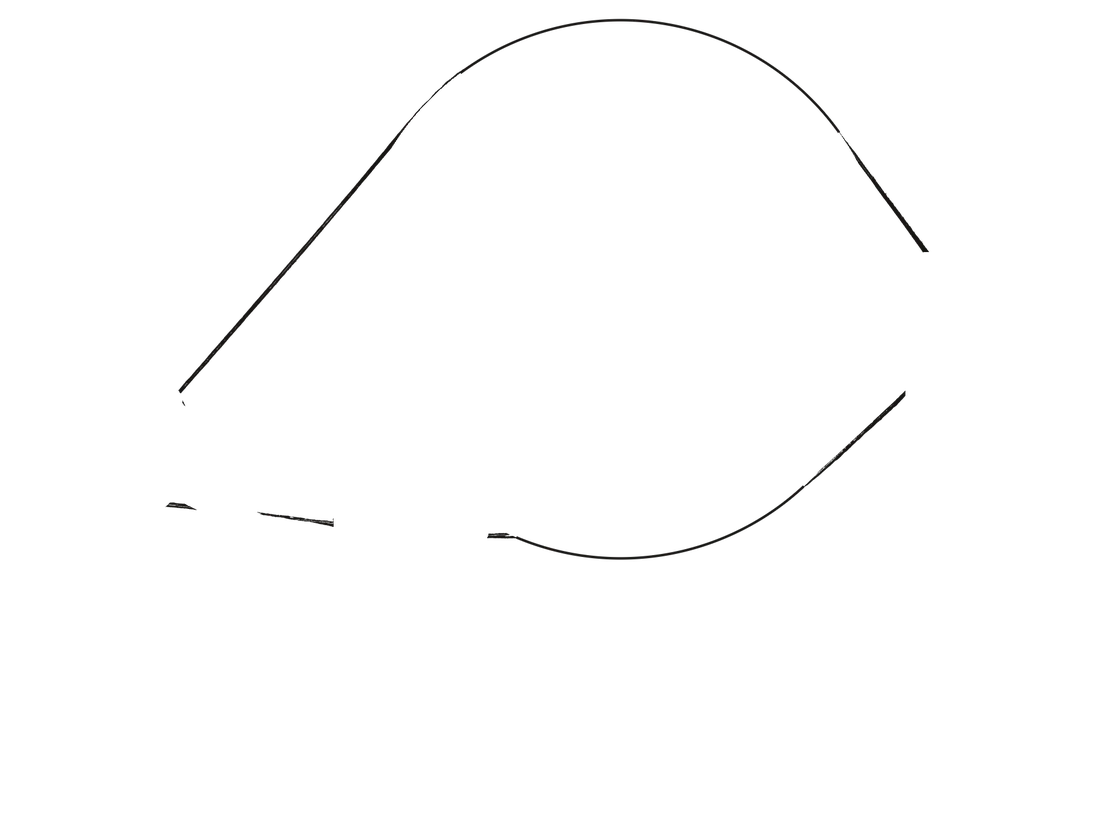
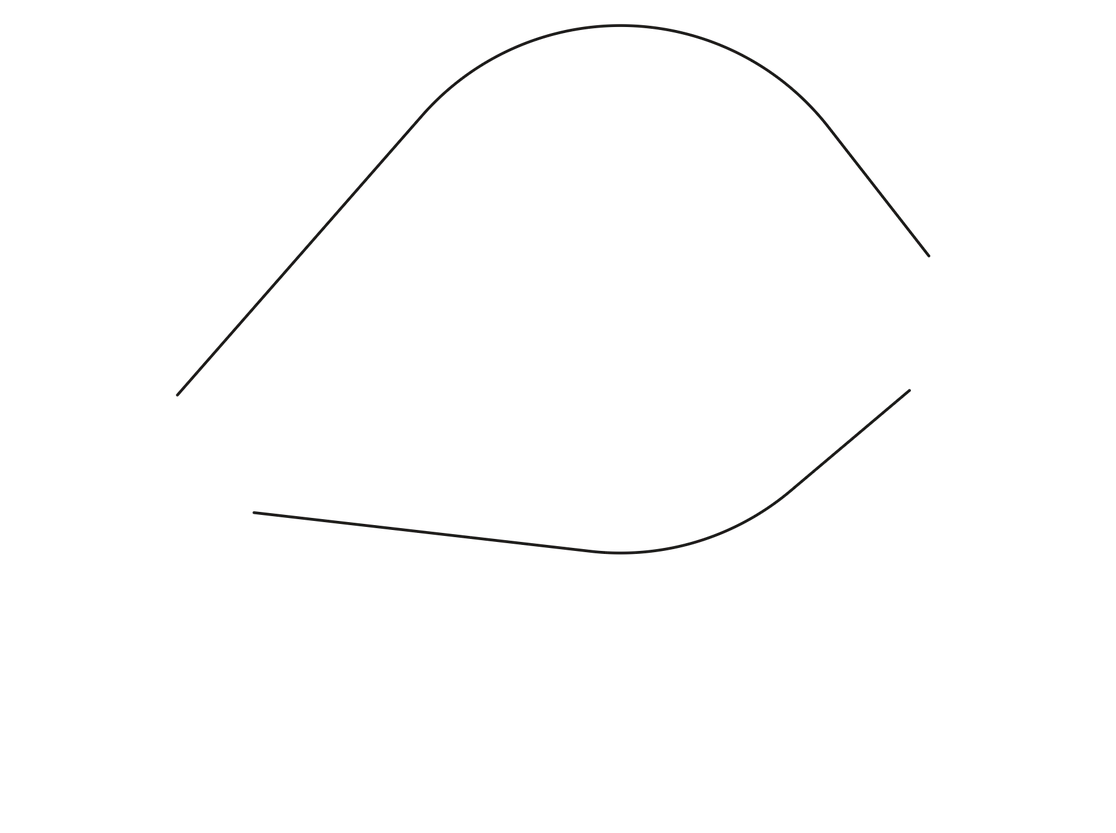
Animate: solid redrawn drive band, static plate text, constant-speed wheel (linear 1080° spin-up); doc v6

diff --git a/src/shells/animate/demo.ts b/src/shells/animate/demo.ts
@@ -28,7 +28,6 @@ const E = {
   out: { kind: 'bezier', p: [0, 0, 0.58, 1] } as Ease,
   io: { kind: 'bezier', p: [0.42, 0, 0.58, 1] } as Ease,
   expo: { kind: 'bezier', p: [0.16, 1, 0.3, 1] } as Ease,
-  spinUp: { kind: 'bezier', p: [0.5, 0, 0.18, 1] } as Ease, // gathers, then coasts
   hold: { kind: 'hold' } as Ease,
   spring: (duration: number, bounce: number): Ease => ({ kind: 'spring', duration, bounce }),
 }
@@ -51,8 +50,8 @@ export function demoDoc(): Doc {
     obj('band', 'Drive band', 'image', null, { x: 558, y: 416.5, w: 1116, h: 833 }, { href: ART.band, locked: true }),
     obj('thread', 'Thread', 'group', null, { x: ORIFICE.x, y: ORIFICE.y, rotation: 25 }),
     obj('yarn', 'Yarn', 'rect', 'thread', { x: 0, w: 0, h: 2.5, radius: 1.25, fill: ACHIOTE }),
-    obj('count', 'Count', 'text', null, { x: 1272, y: 400, fill: ACHIOTE, opacity: 0 }, { text: '{turns} turns', fontSize: 38, fontWeight: 400, align: 'middle', font: 'hand' }),
-    obj('cta', 'Call to action', 'group', null, { x: 1272, y: 444, opacity: 0.7 }),
+    obj('count', 'Count', 'text', null, { x: 1272, y: 400, fill: ACHIOTE }, { text: '{turns} turns', fontSize: 38, fontWeight: 400, align: 'middle', font: 'hand' }),
+    obj('cta', 'Call to action', 'group', null, { x: 1272, y: 444 }),
     obj('caption', 'Caption', 'text', 'cta', { fill: ACHIOTE }, { text: 'click to spin', fontSize: 24, fontWeight: 400, align: 'middle', font: 'hand' }),
     obj('underline', 'Underline', 'rect', 'cta', { x: -2, y: 17, rotation: -2.5, w: 112, h: 1.8, radius: 0.9, fill: ACHIOTE }),
   ]
@@ -66,23 +65,18 @@ export function demoDoc(): Doc {
   const idle: Anim = {
     id: 'idle', name: 'Idle', duration: 9000, loop: 'loop', tracks: {
       'wheel.rotation': [k(0, 0, E.lin), k(9000, 360)],
-      'cta.opacity': [k(0, 0.7), k(2250, 1), k(4500, 0.7), k(6750, 1), k(9000, 0.7)],
     },
   }
   const hover: Anim = {
     id: 'hover', name: 'Hover', duration: 2800, loop: 'loop', tracks: {
       'wheel.rotation': [k(0, 0, E.lin), k(2800, 360)],
-      'cta.opacity': [k(0, 0.7, E.out), k(300, 1)],
     },
   }
   const press: Anim = {
     id: 'press', name: 'Spin up', duration: 2400, loop: 'loop', tracks: {
-      'wheel.rotation': [k(0, 0, E.spinUp), k(1800, 1080)],
+      'wheel.rotation': [k(0, 0, E.lin), k(2400, 1080)], // constant speed: 1080° in 2.4s loops seamlessly
       ...yarn(240, 1300, E.expo),
-      'count.opacity': [k(0, 0, E.hold), k(900, 0, E.out), k(1200, 1, E.hold), k(2050, 1, E.in), k(2400, 0)],
       'yarn.opacity': [k(0, 1, E.hold), k(2050, 1, E.in), k(2400, 0)],
-      'count.y': [k(0, 400, E.hold), k(900, 412, E.spring(520, 0.45)), k(1400, 400)],
-      'cta.opacity': [k(0, 1, E.out), k(400, 0.45, E.hold), k(2050, 0.45, E.io), k(2400, 1)],
     },
   }
   return {

diff --git a/src/shells/animate/store.ts b/src/shells/animate/store.ts
@@ -34,7 +34,7 @@ export const schema = defineSchema({
 export const params = createParams(schema, { id: 'animate', version: 4 }) // v4: Lana artboard
 export type V = ReturnType<typeof params.values>
 
-export const doc = createDocStore<Doc>(demoDoc(), { id: 'animate', version: 5 }) // v4: Rafael's plate, split into frame + wheel by Gemini
+export const doc = createDocStore<Doc>(demoDoc(), { id: 'animate', version: 6 }) // v4: Rafael's plate, split into frame + wheel by Gemini
 export const history = createHistory([params, doc])
 
 export const getDoc = () => doc.get()
